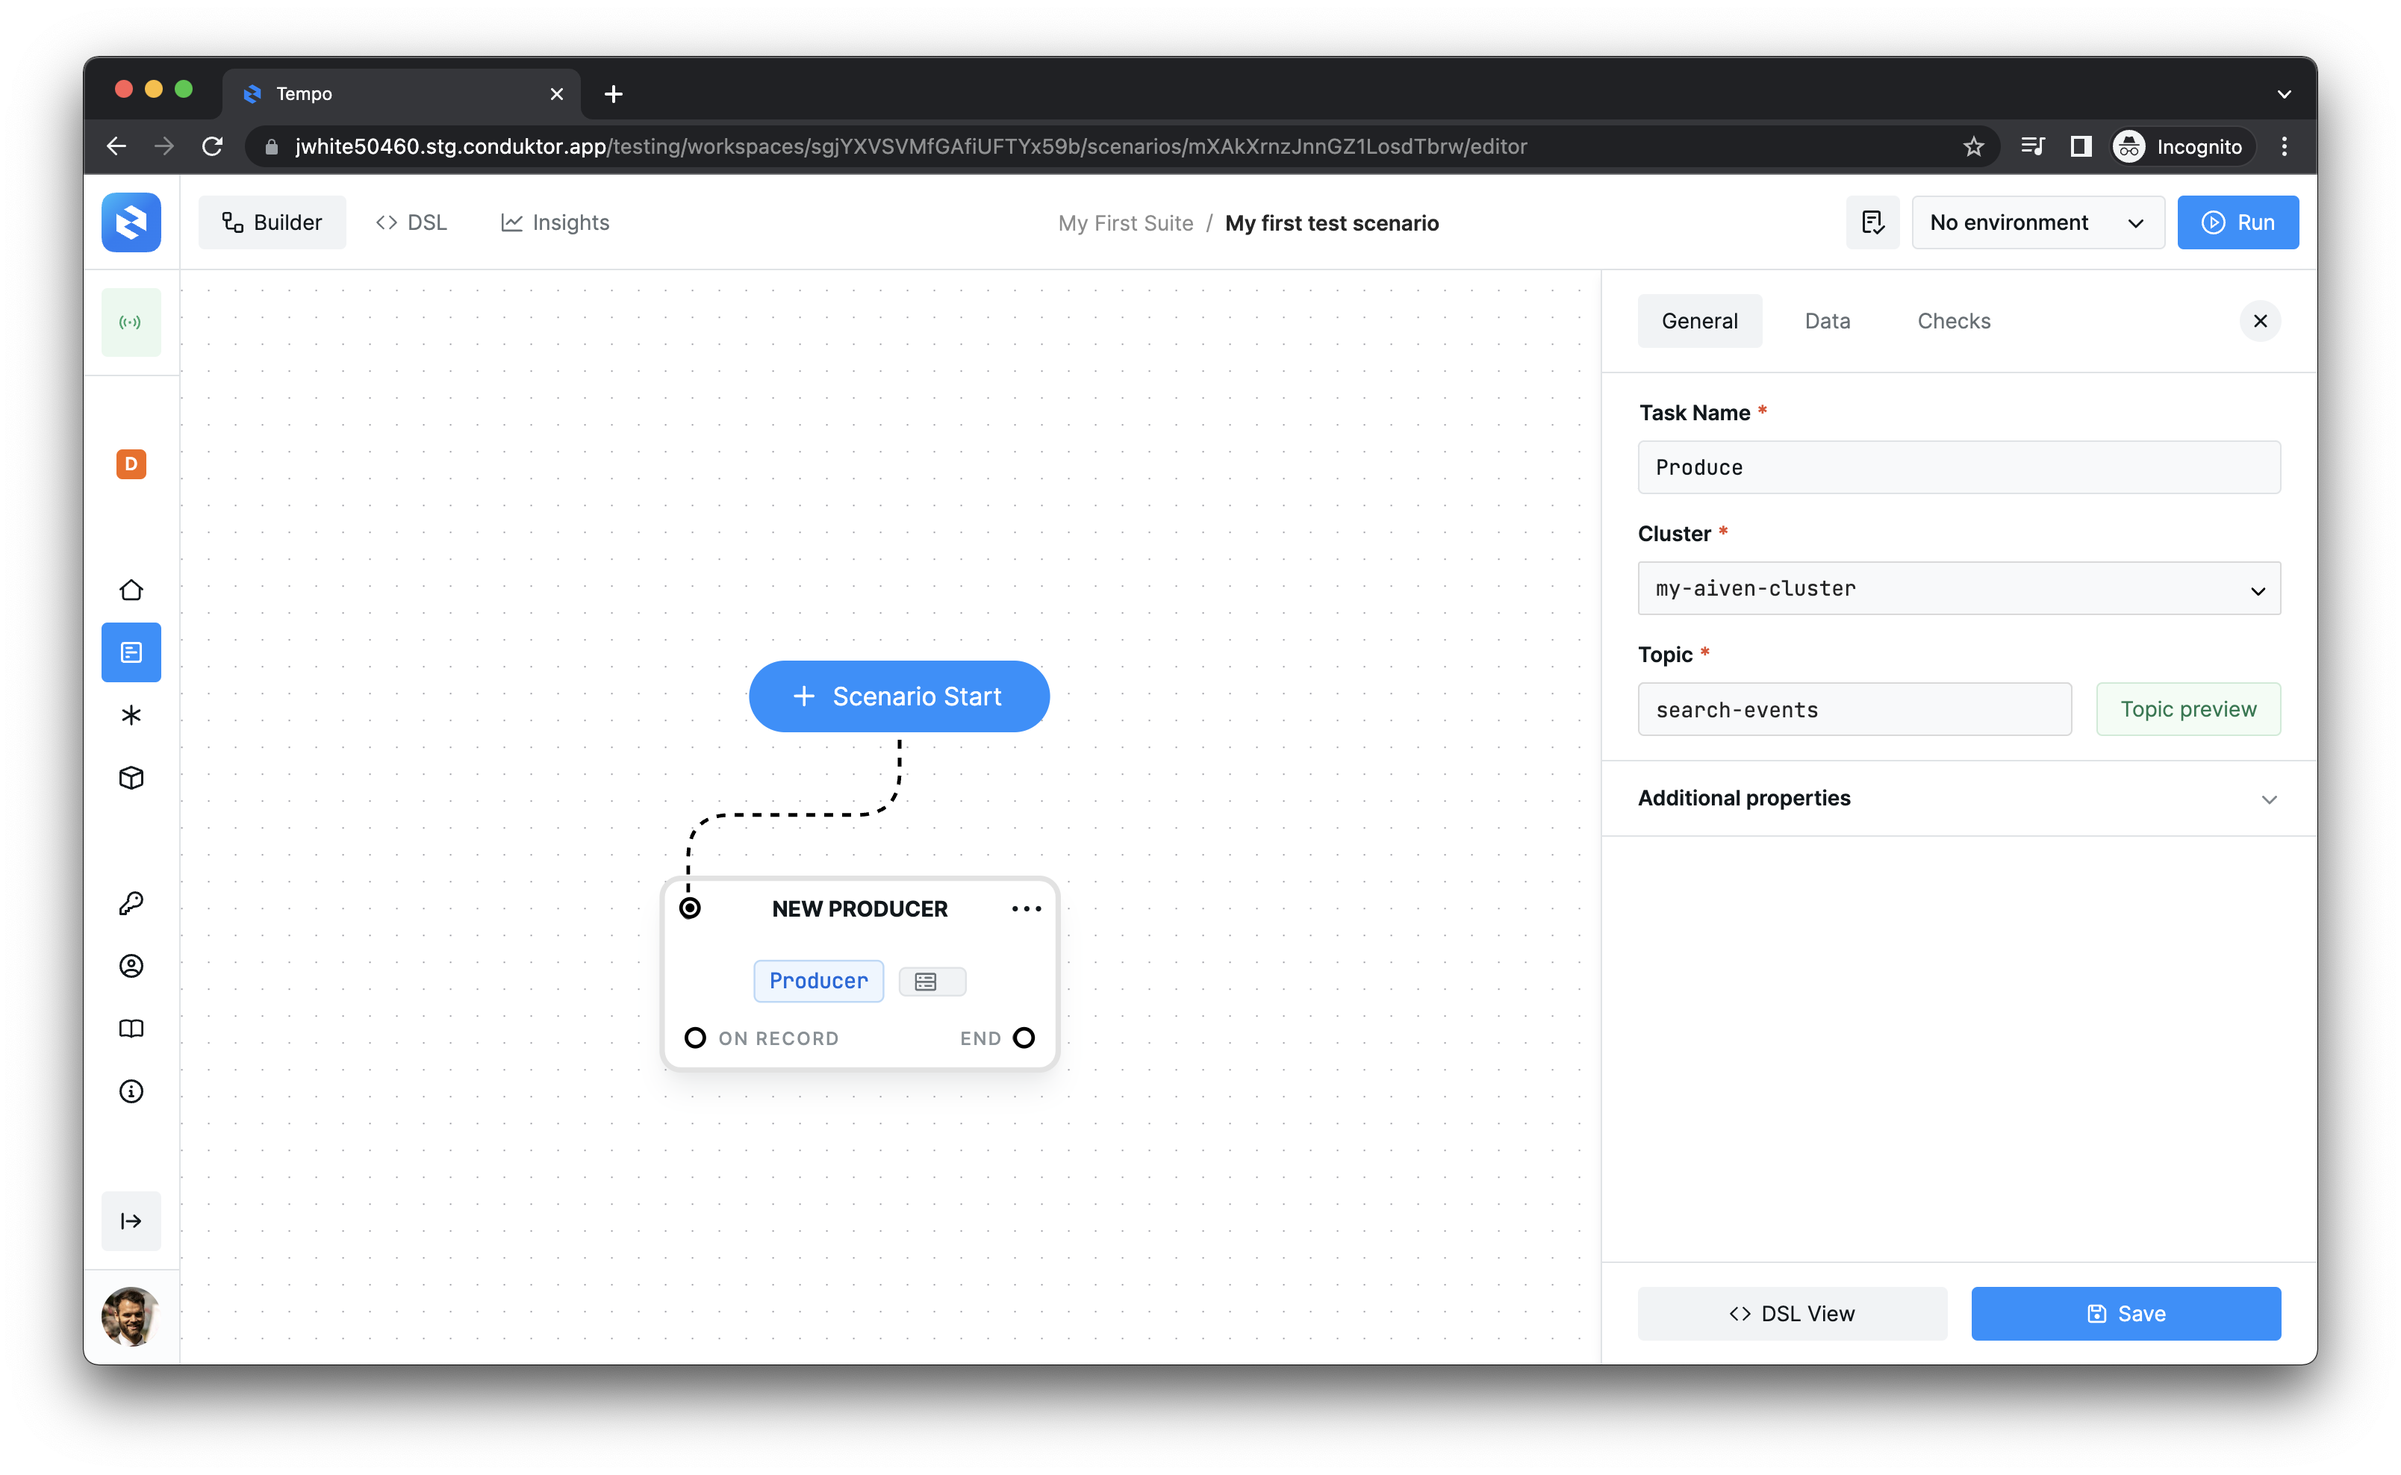
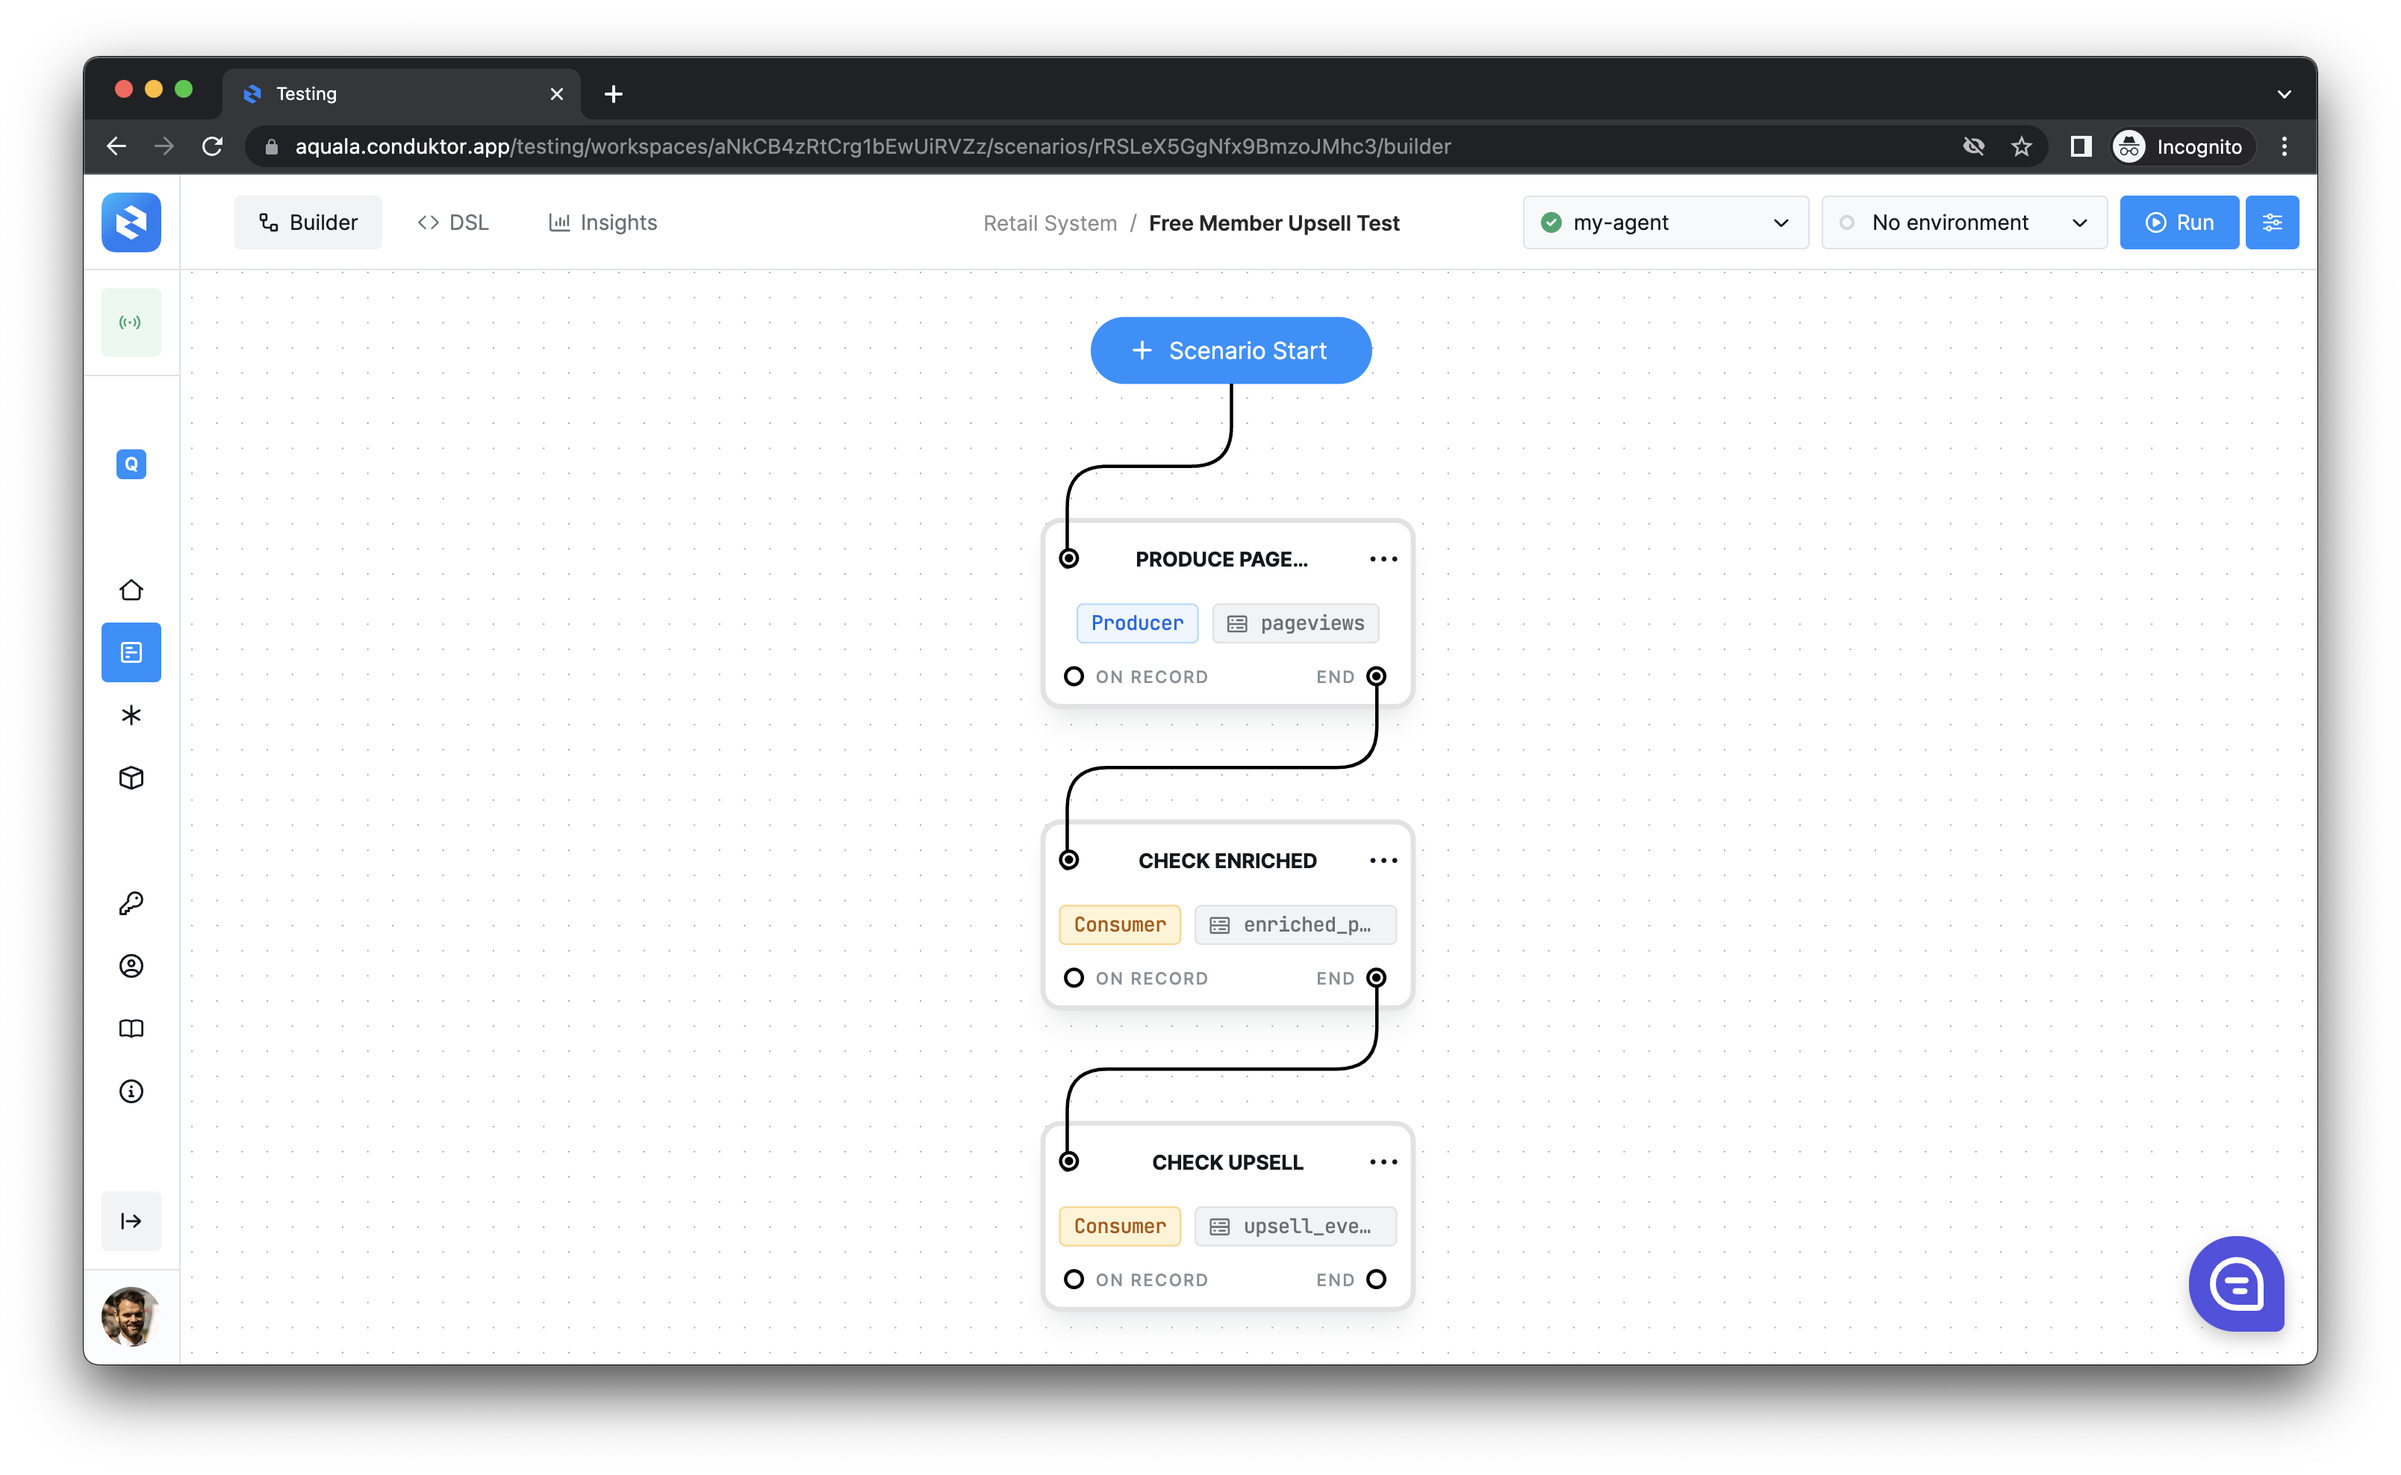
GitBook: [#128] No subject

diff --git a/tutorials/event-driven-retail-sytem.md b/tutorials/event-driven-retail-sytem.md
@@ -1,0 +1,126 @@
+---
+description: Learn how to test the end-to-end flow of an event-driven architecture
+---
+
+# Event-Driven Retail Sytem
+
+In this tutorial, we will demonstrate how to compose an end-to-end Test Scenario for an event-driven system composing of multiple topics. This tutorial will demonstrate:
+
+* Testing the **workflow** to validate the integrations
+  * _Are messages correctly broadcast to Kafka topics from the external applications?_&#x20;
+* Testing the **data integrity** at each step:
+  * _Was our message enriched correctly based on the_ `userId`
+  * _Was a message received within an agreed SLA?_
+
+## Architecture Reference
+
+The general flow can be described as:
+
+* Message is produced into the `pageviews` topic
+* User Service consumes the message, enriches it with additional data and pushes a new message into the `pageviews_enriched` topic
+* Promotions Service consumes the enriched message, and assuming certain business rules are met, produces another message into the `upsell_events` topic
+
+![](<../.gitbook/assets/Screenshot 2022-05-24 at 17.35.25 (1).png>)
+
+## Test Scenario
+
+Below demonstrates how to build a Test Scenario representing the above architecture.
+
+{% hint style="info" %}
+Remember, any dependent applications must be running to validate the scenario. In this case, the User and Promotions Services are considered external applications.
+{% endhint %}
+
+![](<../.gitbook/assets/image (10).png>)
+
+Note that:
+
+* The first task produces a message into `pageviews` topic
+* Once it's been processed by the User Service, the second task consumes the enriched event from `enriched_pageviews`
+  * _Note that it's chained onto the `end` _ [_port_](../features/building-tests/tasks/task-ports.md) _of the previous task_
+* Lastly, the third task will consume any resultant events from `upsell_events`
+
+## Breaking it Down
+
+### Producer Task
+
+This task produces a message into the `pageviews` topic. There are no [Test Checks](../features/building-tests/test-checks/) associated with it.&#x20;
+
+The cluster and topic are configured on the **General** tab. Then, a valid JSON message value is set on the **Data** tab.&#x20;
+
+The User Service will take care of enrichment based on the `userId` present in this message.
+
+![](<../.gitbook/assets/Screenshot 2022-05-24 at 20.02.41.png>)
+
+### Consumer Task - Check Enriched
+
+This Task is used to consume the enriched message and check the data within.
+
+In the **Data** tab, the deserialisation formats for consuming the enriched message are set. In this case, we expect a JSON value format.
+
+Only 1 enriched message is expected from the User Service, therefore the default lifecycle rules _(stop after 1 message is consumed)_ are suitable.
+
+{% hint style="info" %}
+If messages were continuously being produced into this topic, we would need to use a filter to intercept the correct one.&#x20;
+{% endhint %}
+
+![](<../.gitbook/assets/Screenshot 2022-05-24 at 20.54.29.png>)
+
+Below shows the expected output for an **enriched** message.&#x20;
+
+```json
+// Consumed Record 
+{
+   "TIMESTAMP":1652012999698,
+   "USERID":12345,
+   "PAGEID":200,
+   "PAGENAME":"Checkout",
+   "COUNTRY":"US",
+   "PLANTYPE":"Free",
+   "INTERESTS":"Gaming"
+}
+```
+
+To validate the User Service is working correctly, we will create a [Test Check](../features/building-tests/test-checks/) on the consumed record.
+
+* Navigate to the **Checks** tab
+* The 'Plan Type' attribute is the result of **message enrichment**
+* It's accessible via JQ using `.record.value.PLANTYPE`
+* Set the type to `string` and Operator to `equals`
+* Assert that user `12345` is on a `Free` plan
+
+![](<../.gitbook/assets/Screenshot 2022-05-24 at 20.54.38.png>)
+
+### Consumer Task - Check Upsell
+
+The last task is used to ensure that `Free` members who visit the checkout page are upsold promotional products.&#x20;
+
+If the Promotions Service is working correctly, a message will be produced into the `upsell_events` topic.&#x20;
+
+From a business perspective, it's important this happens within an agreed **SLA.** For this example, the SLA is set at 500ms.
+
+This is addressed via the **Lifecycle** section on the Data tab:
+
+* Set the fail condition to an elapsed time of **500ms**
+  * _Meaning, if this process takes > 500ms, the test will be considered a fail_
+
+![](<../.gitbook/assets/Screenshot 2022-05-25 at 17.27.49 (1).png>)
+
+### Execution
+
+With the workflow and checks configured, the only remaining step is to execute the scenario.
+
+Use **Run** to execute the test and observe the result.
+
+![](<../.gitbook/assets/Screenshot 2022-05-25 at 17.35.20.png>)
+
+In the above case, we can see the end-to-end test scenario has **failed**. Hovering over the events will provide more detail.&#x20;
+
+> `Consumer reached the Timeout fail condition`
+>
+> This means that the business SLA of 500ms was not met.
+
+Navigating to the **Checks** tab will detail the result of any [Test Checks](../features/building-tests/test-checks/). In this case the check on the enriched data was successful.&#x20;
+
+![](<../.gitbook/assets/Screenshot 2022-05-25 at 17.50.50.png>)
+
+**Great!** We have our identified the components in our system that are passing, and those that are currently failing. Now we can begin to address the reasons for failure!&#x20;

diff --git a/getting-started/create-a-test-scenario.md b/getting-started/create-a-test-scenario.md
@@ -14,7 +14,7 @@ From within your [Workspace](../features/workspace.md), navigate to the **Test S
 
 Give your test suite a name, for example, 'My First Test Suite'.
 
-![](<../.gitbook/assets/image (157).png>)
+![](<../.gitbook/assets/image (34).png>)
 
 ## Create a Test Scenario
 
@@ -36,13 +36,13 @@ In the **General** tab, select a configured **Cluster,** and choose the **Topic*
 **Pro Tip:** Use the **Topic preview** button to fetch sample records from your Kafka topic
 {% endhint %}
 
-![](<../.gitbook/assets/image (148).png>)
+![](<../.gitbook/assets/image (10) (1).png>)
 
 Navigate to the **Data** tab and select the **serialization format** for your message key/value.&#x20;
 
 With **String** selected as the value format, enter the value `Hello World`
 
-![](../.gitbook/assets/image.png)
+![](<../.gitbook/assets/image (158).png>)
 
 Select **Save** to add your Produce task to the graph.
 
@@ -84,7 +84,7 @@ Select the **+ button** to add a new test check:
 
 Select **Save** to add the Consume task to the editor.
 
-![](<../.gitbook/assets/image (79).png>)
+![](<../.gitbook/assets/image (18).png>)
 
 ## Execute your Test Scenario
 
@@ -94,4 +94,4 @@ _Note you must have a connected agent selected via the left navigation menu._
 
 Navigate to the **Checks** tab to see the result of any [Test Checks](../features/building-tests/test-checks/).
 
-![](<../.gitbook/assets/image (39).png>)
+![](<../.gitbook/assets/image (123).png>)

diff --git a/getting-started/sign-up-to-conduktor-testing.md b/getting-started/sign-up-to-conduktor-testing.md
@@ -6,7 +6,7 @@ Conduktor Testing is a web application that can be reached through our website. 
 
 If you do not yet have a Conduktor account, you will need to sign-up first.&#x20;
 
-To get started, select the **Sign Up** button from the top-right hand corner of our [website](https://conduktor.io).&#x20;
+To get started, select the **Sign Up** button from the top-right hand corner of our [website](https://conduktor.io/).&#x20;
 
 ![](<../.gitbook/assets/image (168).png>)
 
@@ -18,7 +18,7 @@ During signup, you will be asked to create an **organization.**&#x20;
 
 Note that the organization name will be used in the URL used to access Conduktor Testing.&#x20;
 
-![](<../.gitbook/assets/image (174).png>)
+![](<../.gitbook/assets/image (27) (1).png>)
 
 **Invite any colleagues** that you would like to collaborate with inside Conduktor Testing.
 
@@ -30,5 +30,5 @@ When you have completed sign-up, select **Conduktor Testing** from the product s
 
 You will be redirected to the Conduktor Testing landing page. The first step is to **create a** [**Workspace**](../features/workspace.md)**.**&#x20;
 
-![](<../.gitbook/assets/image (129).png>)
+![](<../.gitbook/assets/image (115).png>)
 

diff --git a/features/building-tests/tasks/producer-task.md b/features/building-tests/tasks/producer-task.md
@@ -41,7 +41,7 @@ Currently supported SerDes formats:
 
 When inside the editor for a new scenario, select the **Start Scenario** button and select **Producer** from the dropdown menu.
 
-![](<../../../.gitbook/assets/image (131).png>)
+![](<../../../.gitbook/assets/image (53).png>)
 
 Give your task an appropriate **name**, and select the **Cluster** and **Topic** that you want to produce data to. If you do not have a Cluster configured, [add one ](../../../getting-started/connect-to-a-kafka-cluster.md)first.&#x20;
 
@@ -73,7 +73,7 @@ This can be useful if data is constantly being produced into your topic, and you
 
 From the **Data** tab of a Producer task, scroll down to the **Headers** section. Add your properties as key and value pairs using this module.
 
-![](<../../../.gitbook/assets/image (70).png>)
+![](<../../../.gitbook/assets/image (170).png>)
 
 Read more about how to use **header filters** in [Consumer](consumer-task.md) Tasks.
 

diff --git a/features/building-tests/tasks/consumer-task.md b/features/building-tests/tasks/consumer-task.md
@@ -61,7 +61,7 @@ The Consumer task is configured with **default lifecycle rules**. It will stop w
 
 However, you can amend these to suit your needs within the **Lifecycle** section.
 
-![](<../../../.gitbook/assets/image (142).png>)
+![](<../../../.gitbook/assets/image (97).png>)
 
 To learn about adding checks (tests) on data consumed from Kafka, move on to **** [**Test Checks**](../test-checks/).&#x20;
 
@@ -86,4 +86,4 @@ Also, you can configure your filter rules with **two conditions**:
 
 To add filters to your Consumer task, navigate to the **Data** tab when in edit mode. Under the **Filters** header, click the '**+**' button to add a new filter.
 
-![](<../../../.gitbook/assets/image (86).png>)
+![](<../../../.gitbook/assets/image (74).png>)

diff --git a/features/workspace.md b/features/workspace.md
@@ -14,7 +14,7 @@ Within your organisation, it's possible to **create multiple workspaces**.&#x20;
 
 To do this, select the active workspace from the left-side navigation menu. Use the **Create New Workspace** button to create additional workspaces.
 
-![](<../.gitbook/assets/image (91).png>)
+![](<../.gitbook/assets/image (87).png>)
 
 ## Workspace Settings
 
@@ -28,7 +28,7 @@ From within the Workspace Settings, you have the option to:
 * Assign your workspace a new colour
 * Delete your workspace (careful, this action cannot be undone!)
 
-![](<../.gitbook/assets/image (17).png>)
+![](<../.gitbook/assets/image (20).png>)
 
 
 

diff --git a/features/environments/using-environment-variables.md b/features/environments/using-environment-variables.md
@@ -28,7 +28,7 @@ In the consumer task, you could create a check to validates if the sessionId in 
 
 _Note to resolve your variable correctly, you **must have an environment selected!**_
 
-![](<../../.gitbook/assets/image (78).png>)
+![](<../../.gitbook/assets/image (146).png>)
 
 ## Template selection (Mustache)
 
@@ -38,7 +38,7 @@ In this case, you will be provided a helper modal when clicking the **'+'** butt
 
 Within this modal, select from an available list of environment variables.
 
-![](<../../.gitbook/assets/image (161).png>)
+![](<../../.gitbook/assets/image (118).png>)
 
 ## JavaScript
 

diff --git a/features/custom-inputs.md b/features/custom-inputs.md
@@ -52,7 +52,7 @@ When Template is used, click inside the input to show a **'+'** button.
 
 This will render a modal that presents any configured variables for selection.&#x20;
 
-![](<../.gitbook/assets/image (29).png>)
+![](<../.gitbook/assets/image (153).png>)
 
 When using JSON format to define data, it's possible to use the mustache selection to populate the key or value for a specific node.
 

diff --git a/features/building-tests/test-checks/check-results.md b/features/building-tests/test-checks/check-results.md
@@ -14,7 +14,7 @@ In the below example, the [Test Check](./) has **failed** because the expected v
 
 _Any test checks that fail will cause the Test Scenario to be considered a fail._
 
-![](<../../../.gitbook/assets/image (52).png>)
+![](<../../../.gitbook/assets/image (72).png>)
 
 In the below example, the Test Check has **succeeded.**
 

diff --git a/features/ci-cd-automation.md b/features/ci-cd-automation.md
@@ -40,7 +40,7 @@ On the next screen, you will be displayed the **CI configuration.** This will be
 
 **Copy** the JSON to the clipboard.
 
-![](<../.gitbook/assets/image (59).png>)
+![](<../.gitbook/assets/image (8).png>)
 
 ## Using the CI Configuration
 

diff --git a/SUMMARY.md b/SUMMARY.md
@@ -39,3 +39,7 @@
 * [FAQ](miscellaneous/faq.md)
 * [Data Security](miscellaneous/data-security.md)
 * [Changelog](miscellaneous/changelog.md)
+
+## Tutorials
+
+* [Event-Driven Retail Sytem](tutorials/event-driven-retail-sytem.md)
